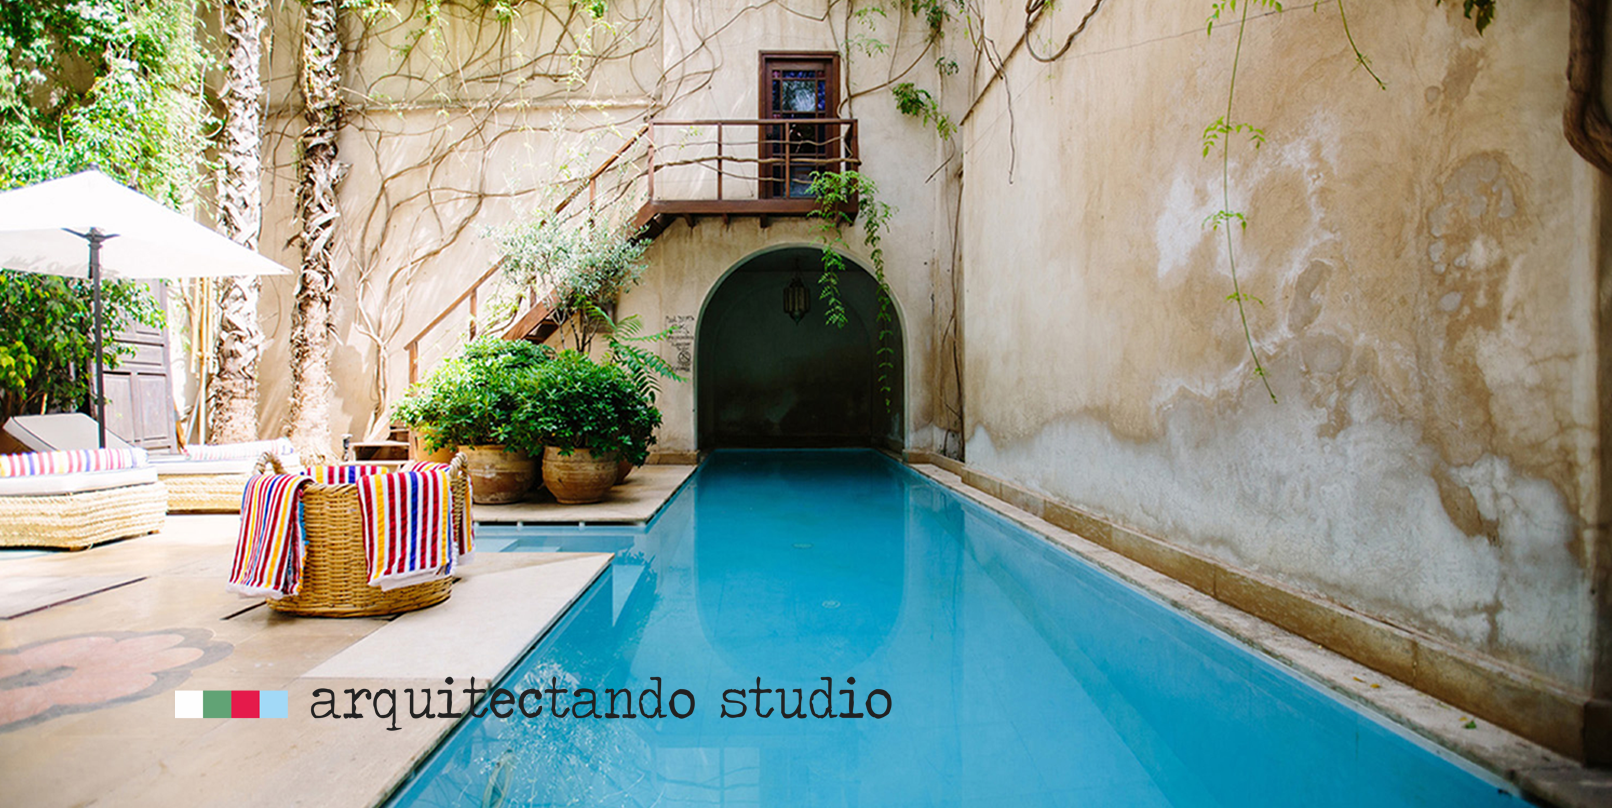
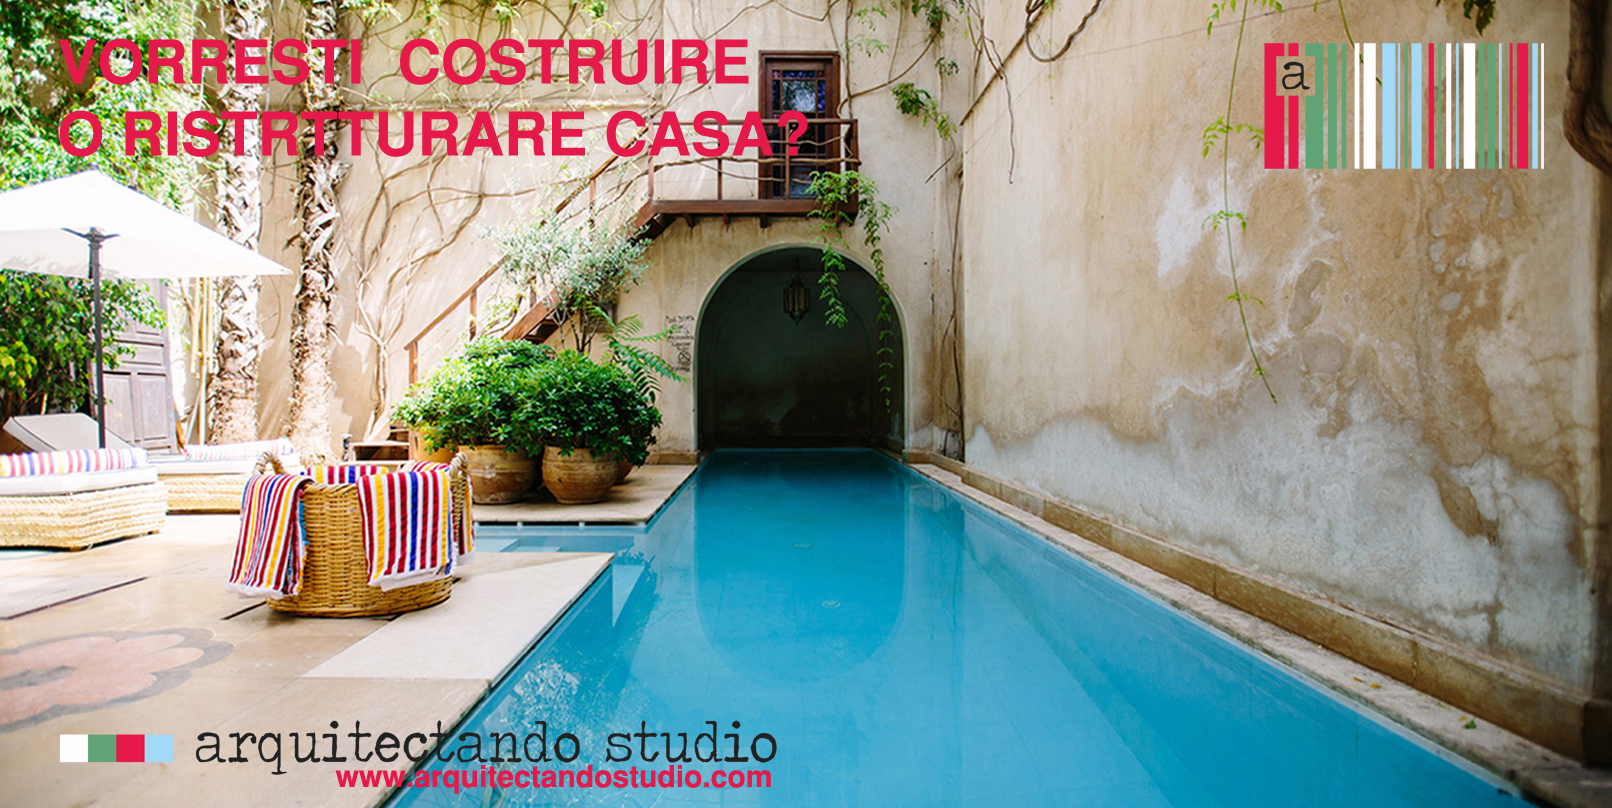
cambio foto OG e titulo

Changed region(s): [[0.031, 0.0309, 0.4963, 0.2166], [0.031, 0.8354, 0.5583, 0.9901], [0.7754, 0.0309, 0.9615, 0.2166]]

diff --git a/index.html b/index.html
@@ -11,7 +11,7 @@
 <!--FB open graph -->
 
 	<meta property="og:url" content="https://jpberardo.github.io/Arquitectando/index.html" /> 
-	<meta property="og:title" content="arquitectando | studio tecnico. Progettazione, ristrutturazione e nuove costruzioni." /> 
+	<meta property="og:title" content="arquitectando | studio tecnico. Progettazione, ristrutturazione, nuove costruzioni e grafic design." /> 
 	<meta property="og:image" content="https://jpberardo.github.io/Arquitectando/og.png"/> 
 	<meta property="og:description"    content="arquitectando | studio tecnico. Esperienza decennale nel settore. Progettazione, ristrutturazione, nuove costruzioni e grafic design." />
 
